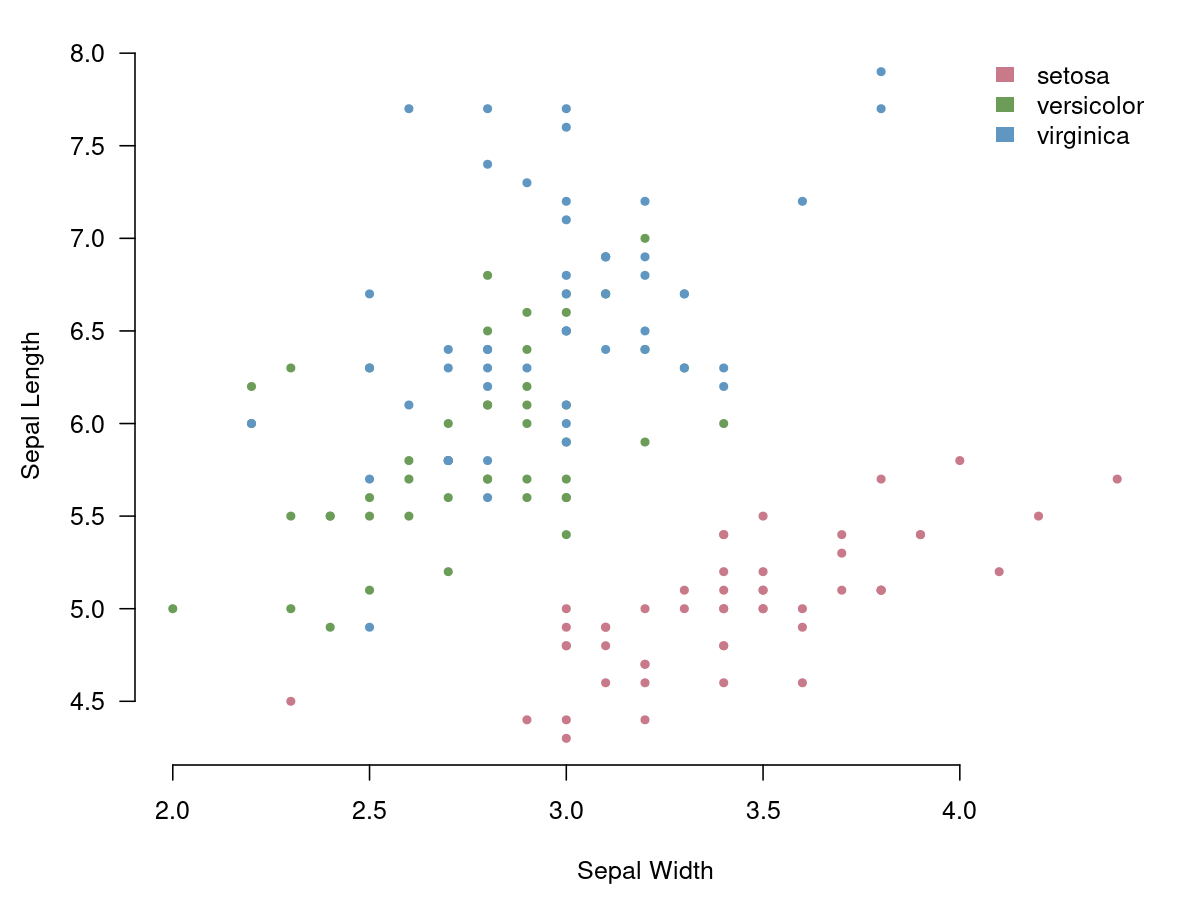
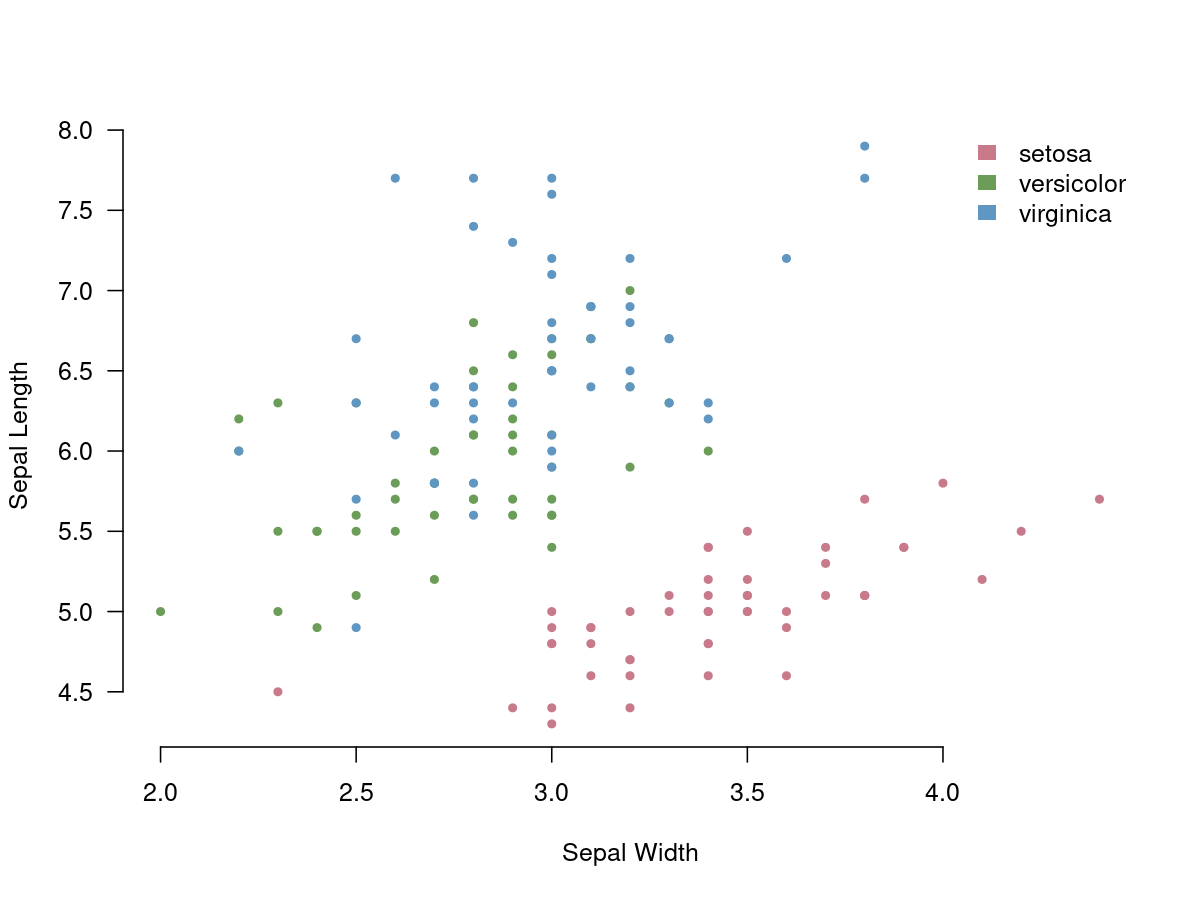
Documentation updates

diff --git a/inst/examples/iris.md b/inst/examples/iris.md
@@ -28,7 +28,6 @@ aggregate(iris[1:4], iris["Species"], mean)
   caption="Relation between sepal length and width for the different iris species." 
   name="iris" height=6 width=8 units="in" res=150}
 pal <- hcl.colors(3, "Dark2")
-par(mar = c(4, 4, 1, 1) + 0.5)
 plot(iris$Sepal.Width, iris$Sepal.Length, pch = 20, 
   col = pal[iris$Species], xlab = "Sepal Width", 
   ylab = "Sepal Length", bty = 'n', las = 1)
